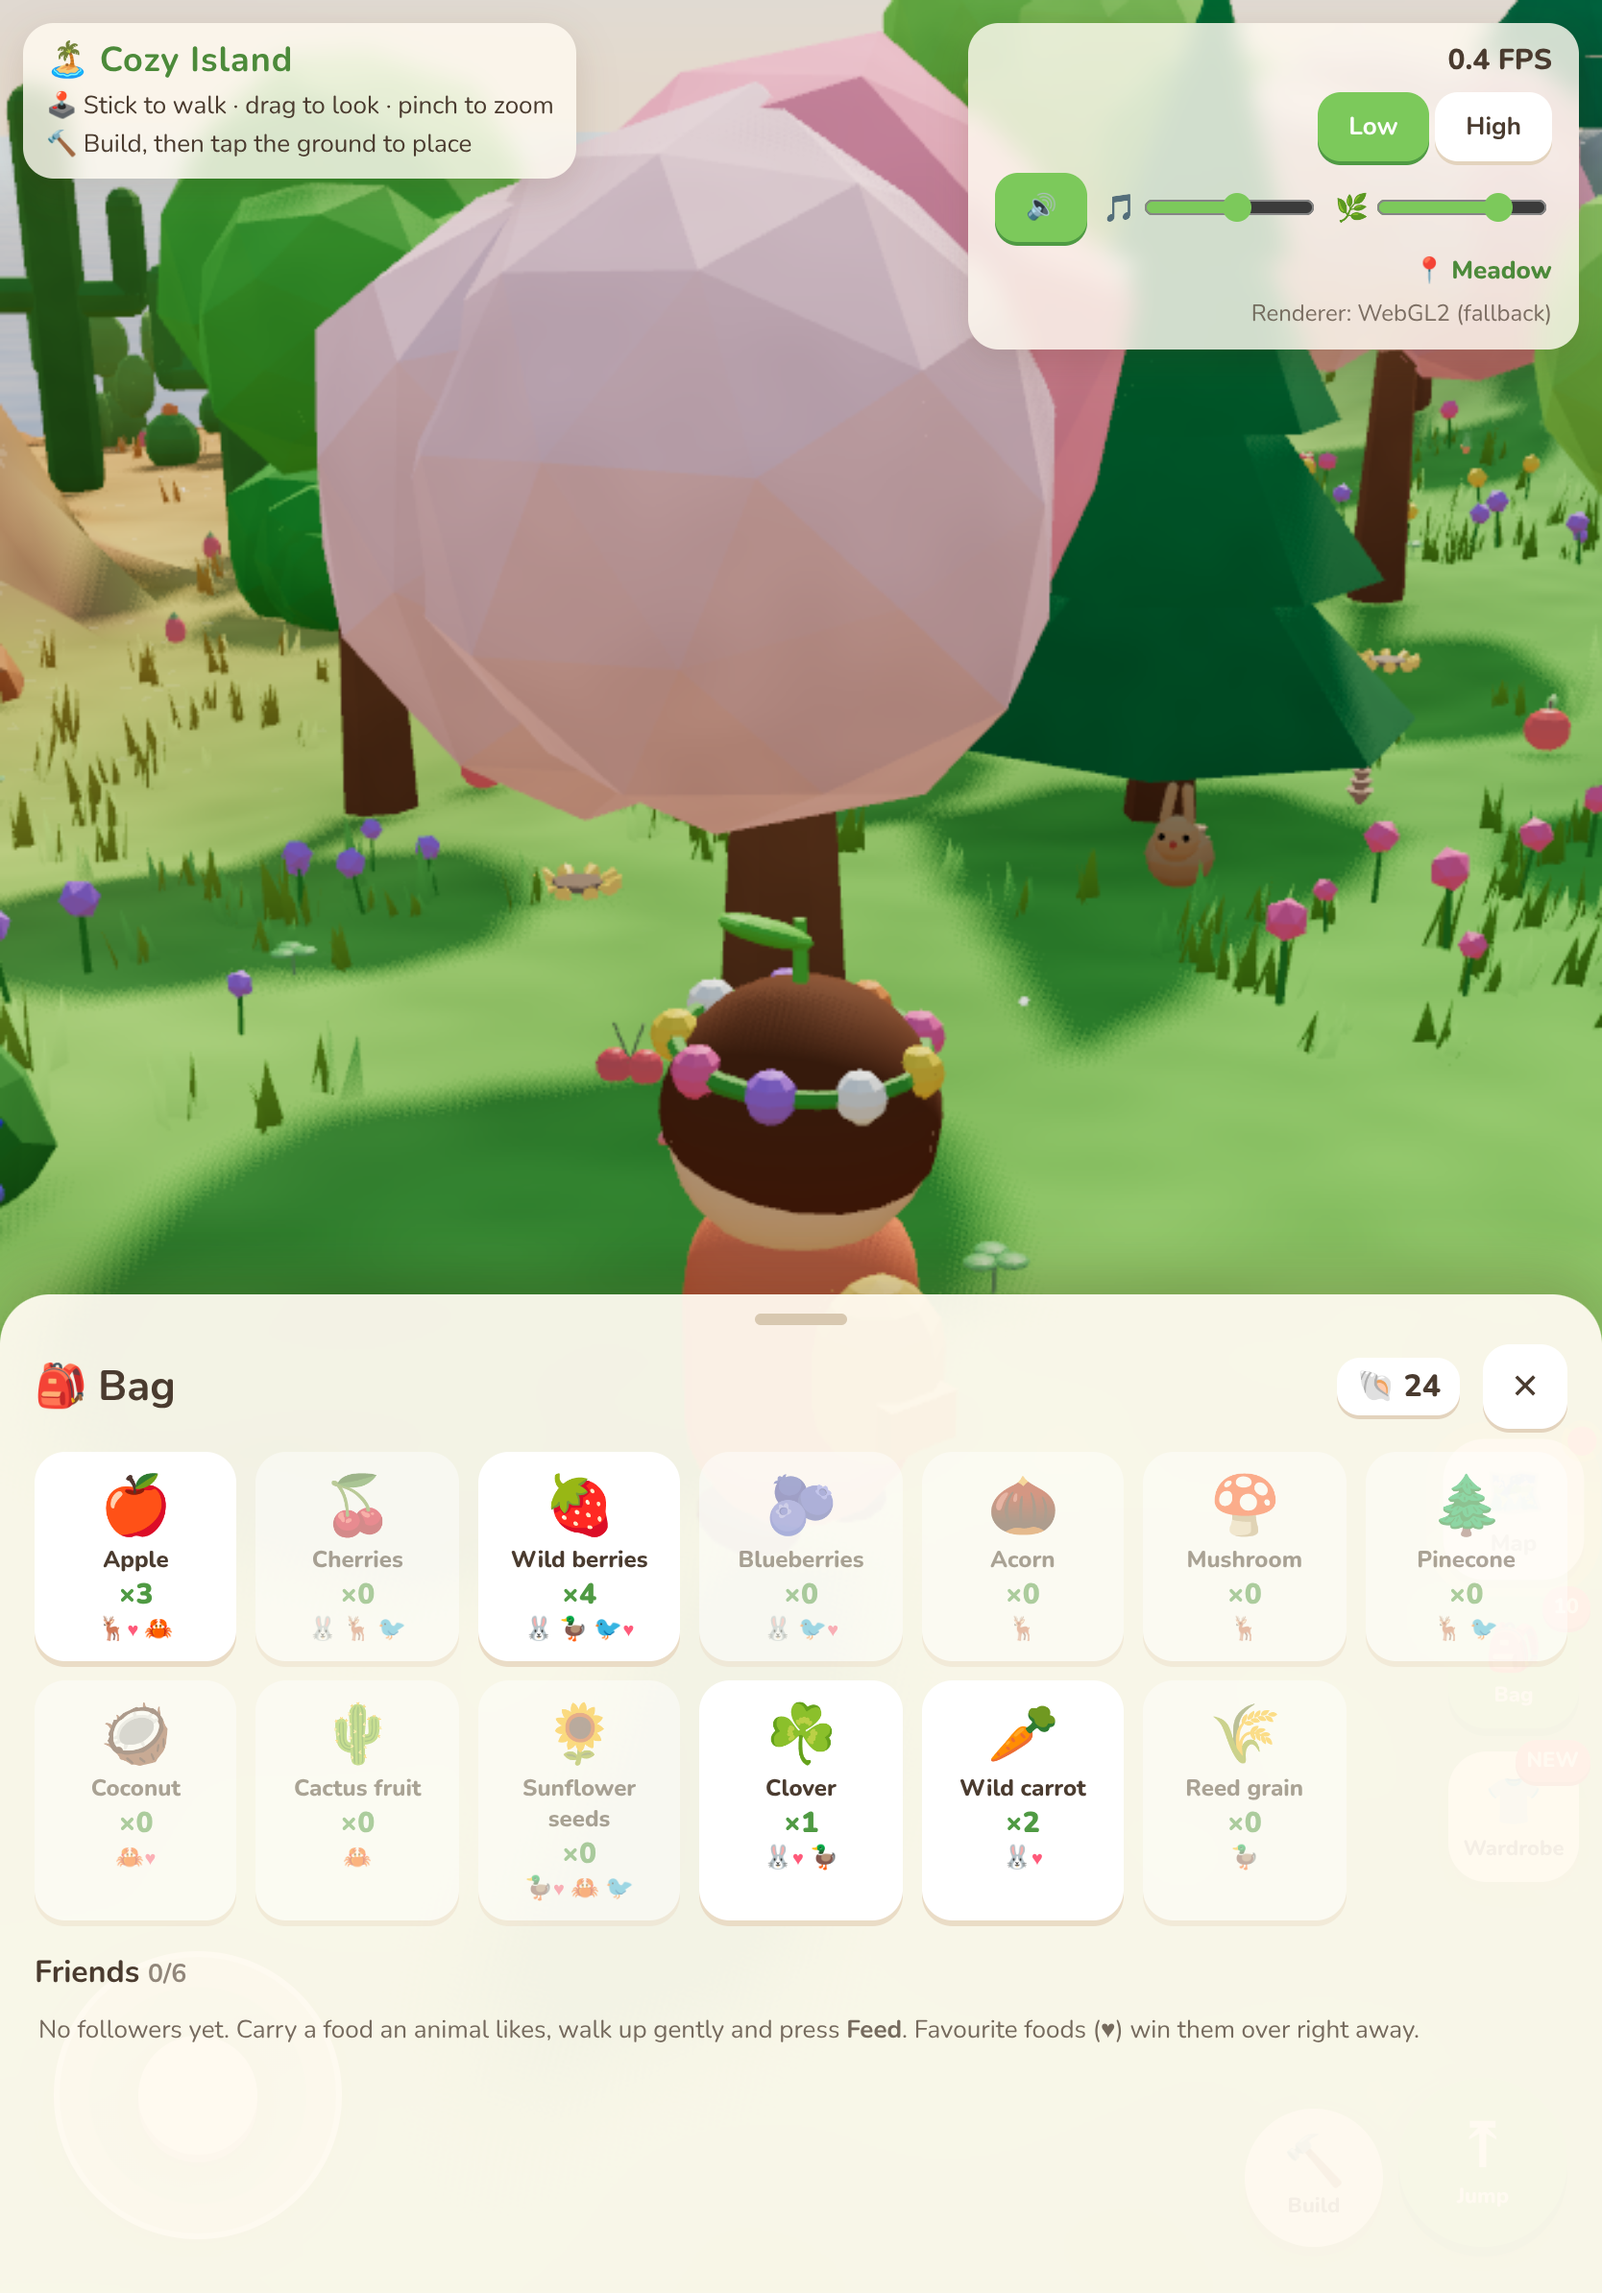
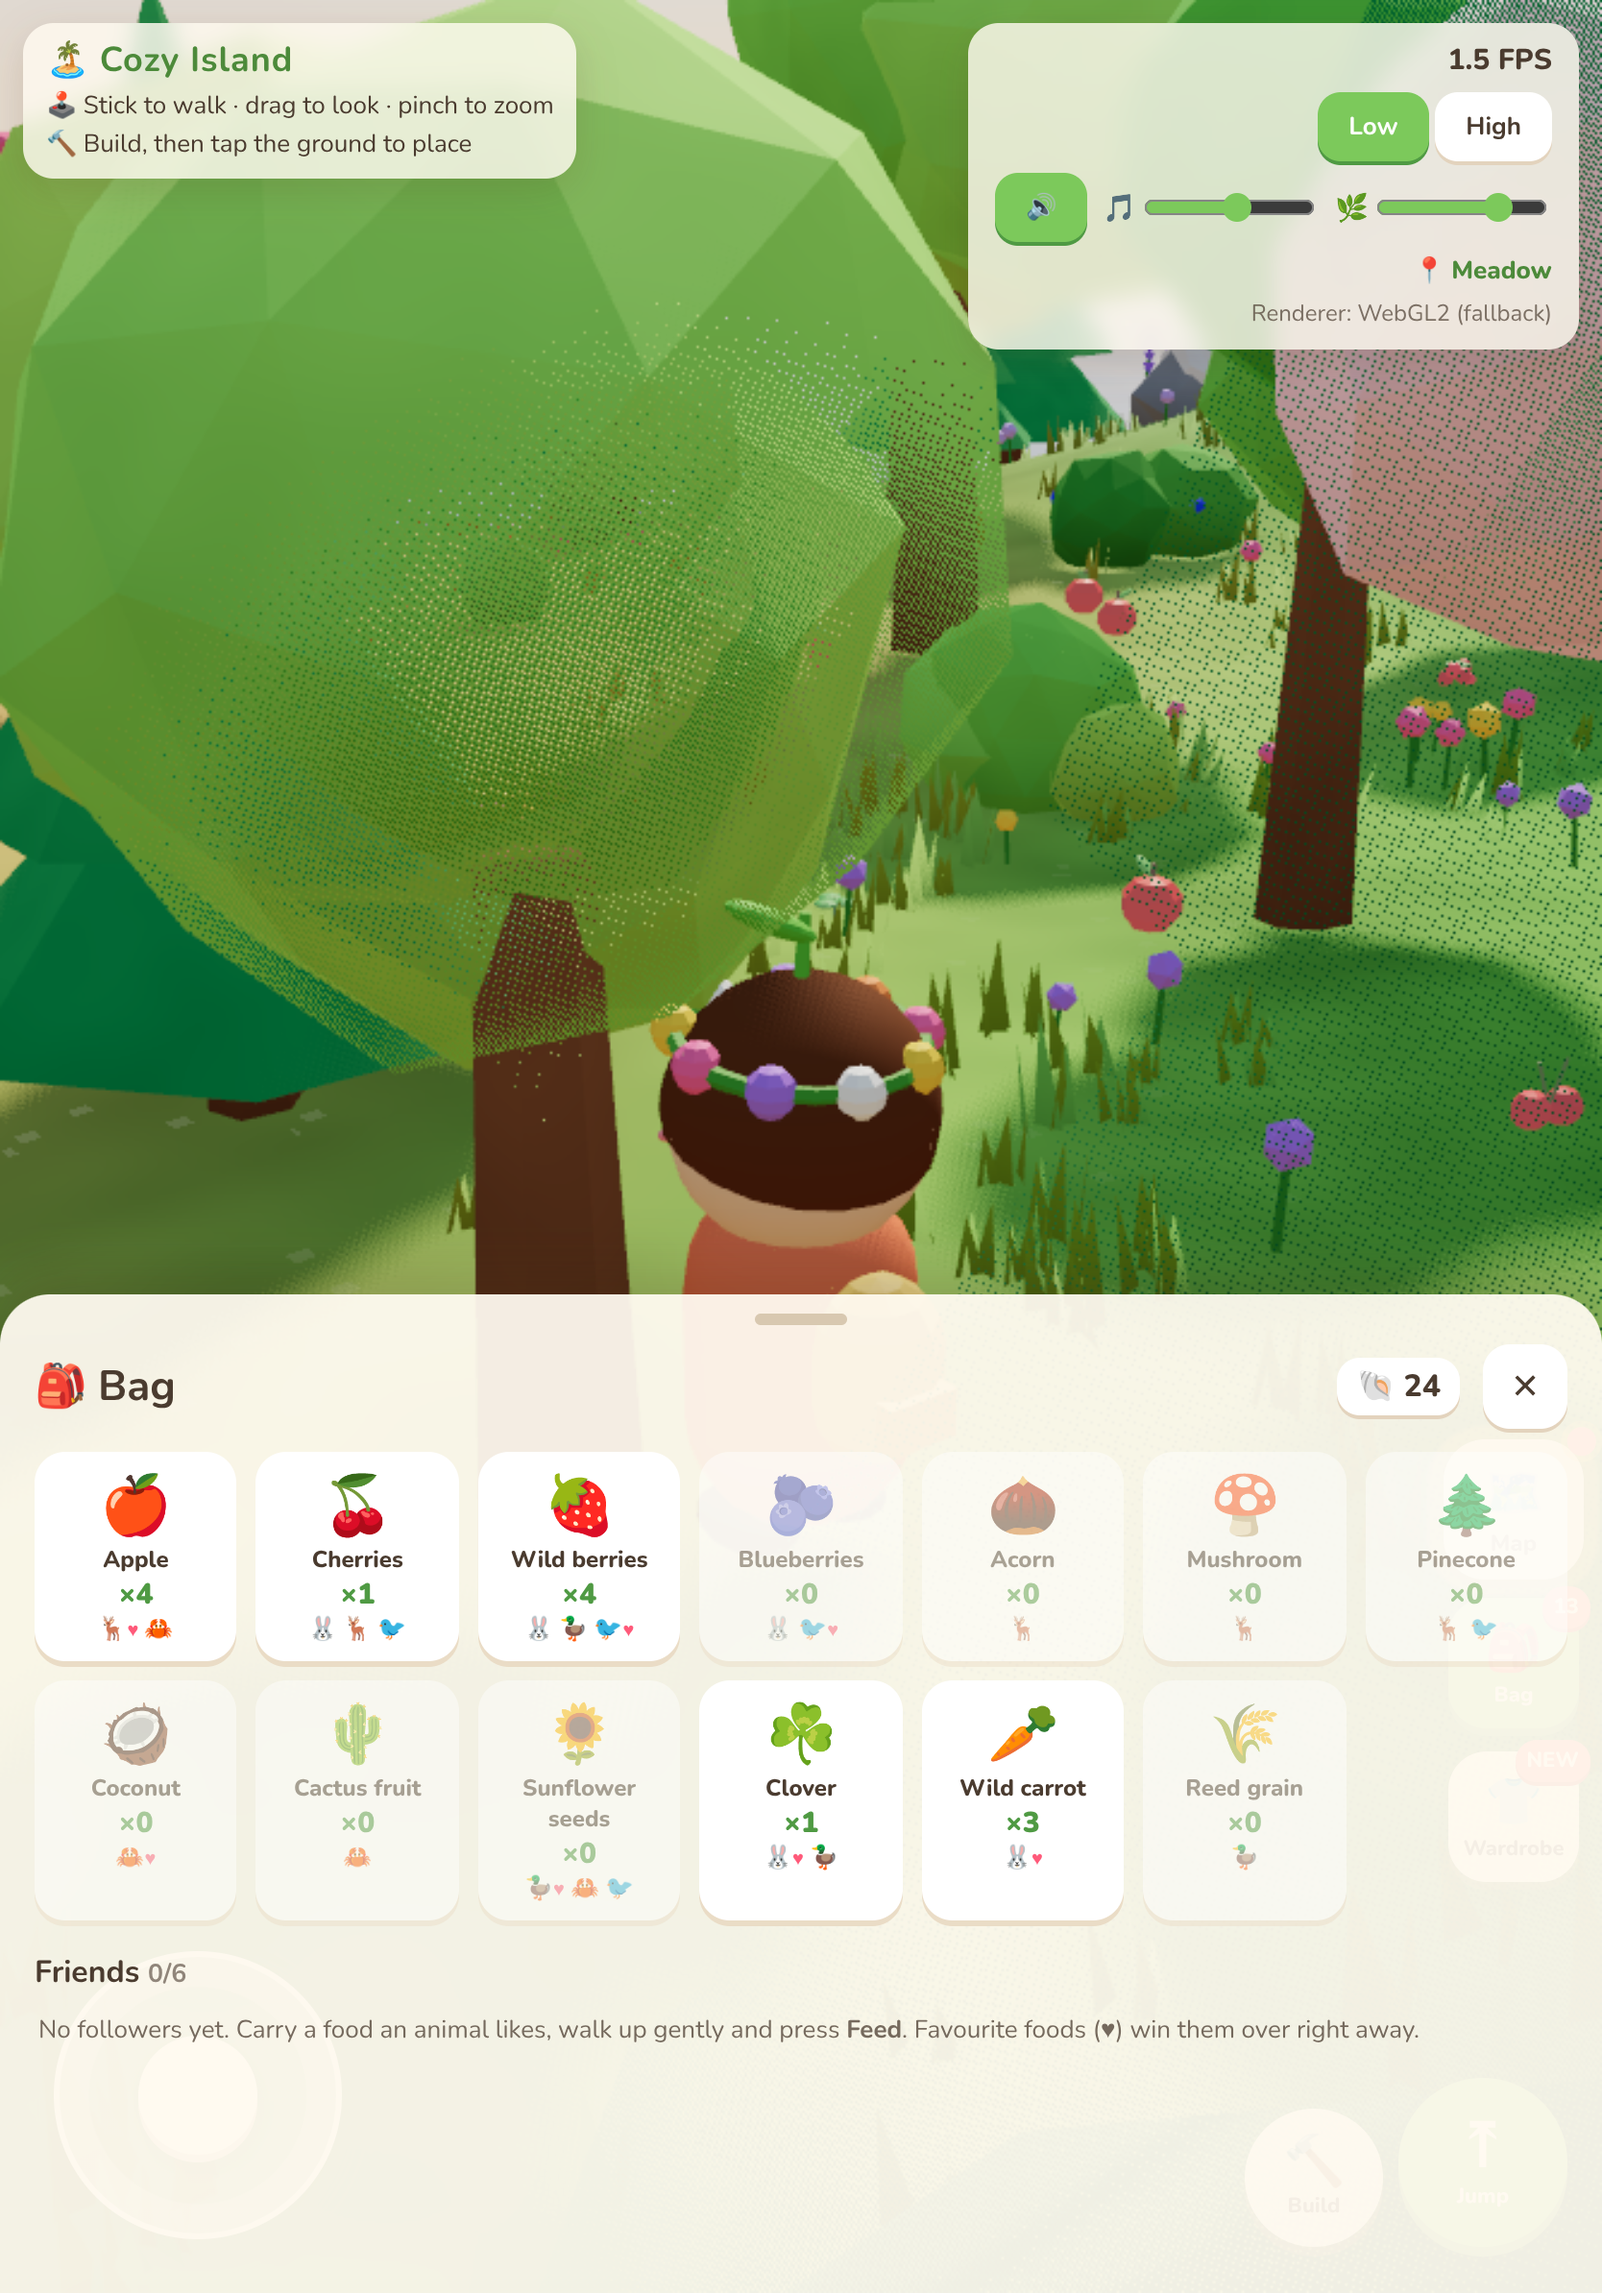
Fix: count picks immediately (not on fly-anim landing); guard NaN pan/gain in audio

diff --git a/src/audio/Audio.ts b/src/audio/Audio.ts
@@ -25,6 +25,9 @@ const pickW = <T,>(items: [T, number][]): T => { let s = 0; for (const [, w] of 
  * (birds, crickets, frogs, gulls), footsteps per surface, and build SFX.
  * Starts on the first user gesture (iOS Safari unlock).
  */
+/** clamp a pan to [-1,1]; NaN (sound exactly at the listener) → centre */
+const fin = (v: number) => (Number.isFinite(v) ? Math.max(-1, Math.min(1, v)) : 0);
+
 export class AudioEngine {
   ctx: Ctx | null = null;
   settings: AudioSettings = { muted: false, music: 0.55, ambience: 0.75 };
@@ -207,11 +210,11 @@ export class AudioEngine {
   // ---------------- voices ----------------
   private out(pan: number, gain: number, wet = 0.25) {
     const ctx = this.ctx!;
-    const g = ctx.createGain(); g.gain.value = gain;
+    const g = ctx.createGain(); g.gain.value = Number.isFinite(gain) ? gain : 0;
     let last: AudioNode = g;
-    if (ctx.createStereoPanner) { const p = ctx.createStereoPanner(); p.pan.value = Math.max(-1, Math.min(1, pan)); g.connect(p); last = p; }
+    if (ctx.createStereoPanner) { const p = ctx.createStereoPanner(); p.pan.value = fin(pan); g.connect(p); last = p; }
     last.connect(this.ambBus);
-    if (wet > 0) { const s = ctx.createGain(); s.gain.value = wet; last.connect(s).connect(this.reverbIn); }
+    if (wet > 0) { const s = ctx.createGain(); s.gain.value = Number.isFinite(wet) ? wet : 0; last.connect(s).connect(this.reverbIn); }
     return g;
   }
   private env(g: AudioParam, t: number, a: number, peak: number, d: number) {
@@ -305,11 +308,11 @@ export class AudioEngine {
   // ---------------- gameplay SFX ----------------
   private sfx(pan = 0, gain = 0.5, wet = 0.08) {
     const ctx = this.ctx!;
-    const g = ctx.createGain(); g.gain.value = gain;
+    const g = ctx.createGain(); g.gain.value = Number.isFinite(gain) ? gain : 0;
     let last: AudioNode = g;
-    if (ctx.createStereoPanner) { const p = ctx.createStereoPanner(); p.pan.value = pan; g.connect(p); last = p; }
+    if (ctx.createStereoPanner) { const p = ctx.createStereoPanner(); p.pan.value = fin(pan); g.connect(p); last = p; }
     last.connect(this.sfxBus);
-    if (wet > 0) { const s = ctx.createGain(); s.gain.value = wet; last.connect(s).connect(this.reverbIn); }
+    if (wet > 0) { const s = ctx.createGain(); s.gain.value = Number.isFinite(wet) ? wet : 0; last.connect(s).connect(this.reverbIn); }
     return g;
   }
 

diff --git a/src/game/Gameplay.ts b/src/game/Gameplay.ts
@@ -187,9 +187,9 @@ export class Gameplay implements System {
     this.g.audio.pick();
     const pos = new THREE.Vector3(it.x, it.y + 0.2, it.z);
     this.juice.pop(pos.clone().add(new THREE.Vector3(0, 0.3, 0)), '+1', 'plus', 0.9, 40);
-    this.juice.fly(pos, FOODS[it.id].icon, this.panels.bagBtn, () => {
-      const f = this.save.data.food; f[it.id] = (f[it.id] ?? 0) + 1; this.save.touch(); this.panels.refreshBadges();
-    });
+    // count immediately (never lost if the page closes mid-flight); the badge updates when the icon lands
+    const f = this.save.data.food; f[it.id] = (f[it.id] ?? 0) + 1; this.save.touch();
+    this.juice.fly(pos, FOODS[it.id].icon, this.panels.bagBtn, () => this.panels.refreshBadges());
   }
 
   private feed(an: FriendRef, food: FoodId, fav: boolean) {
